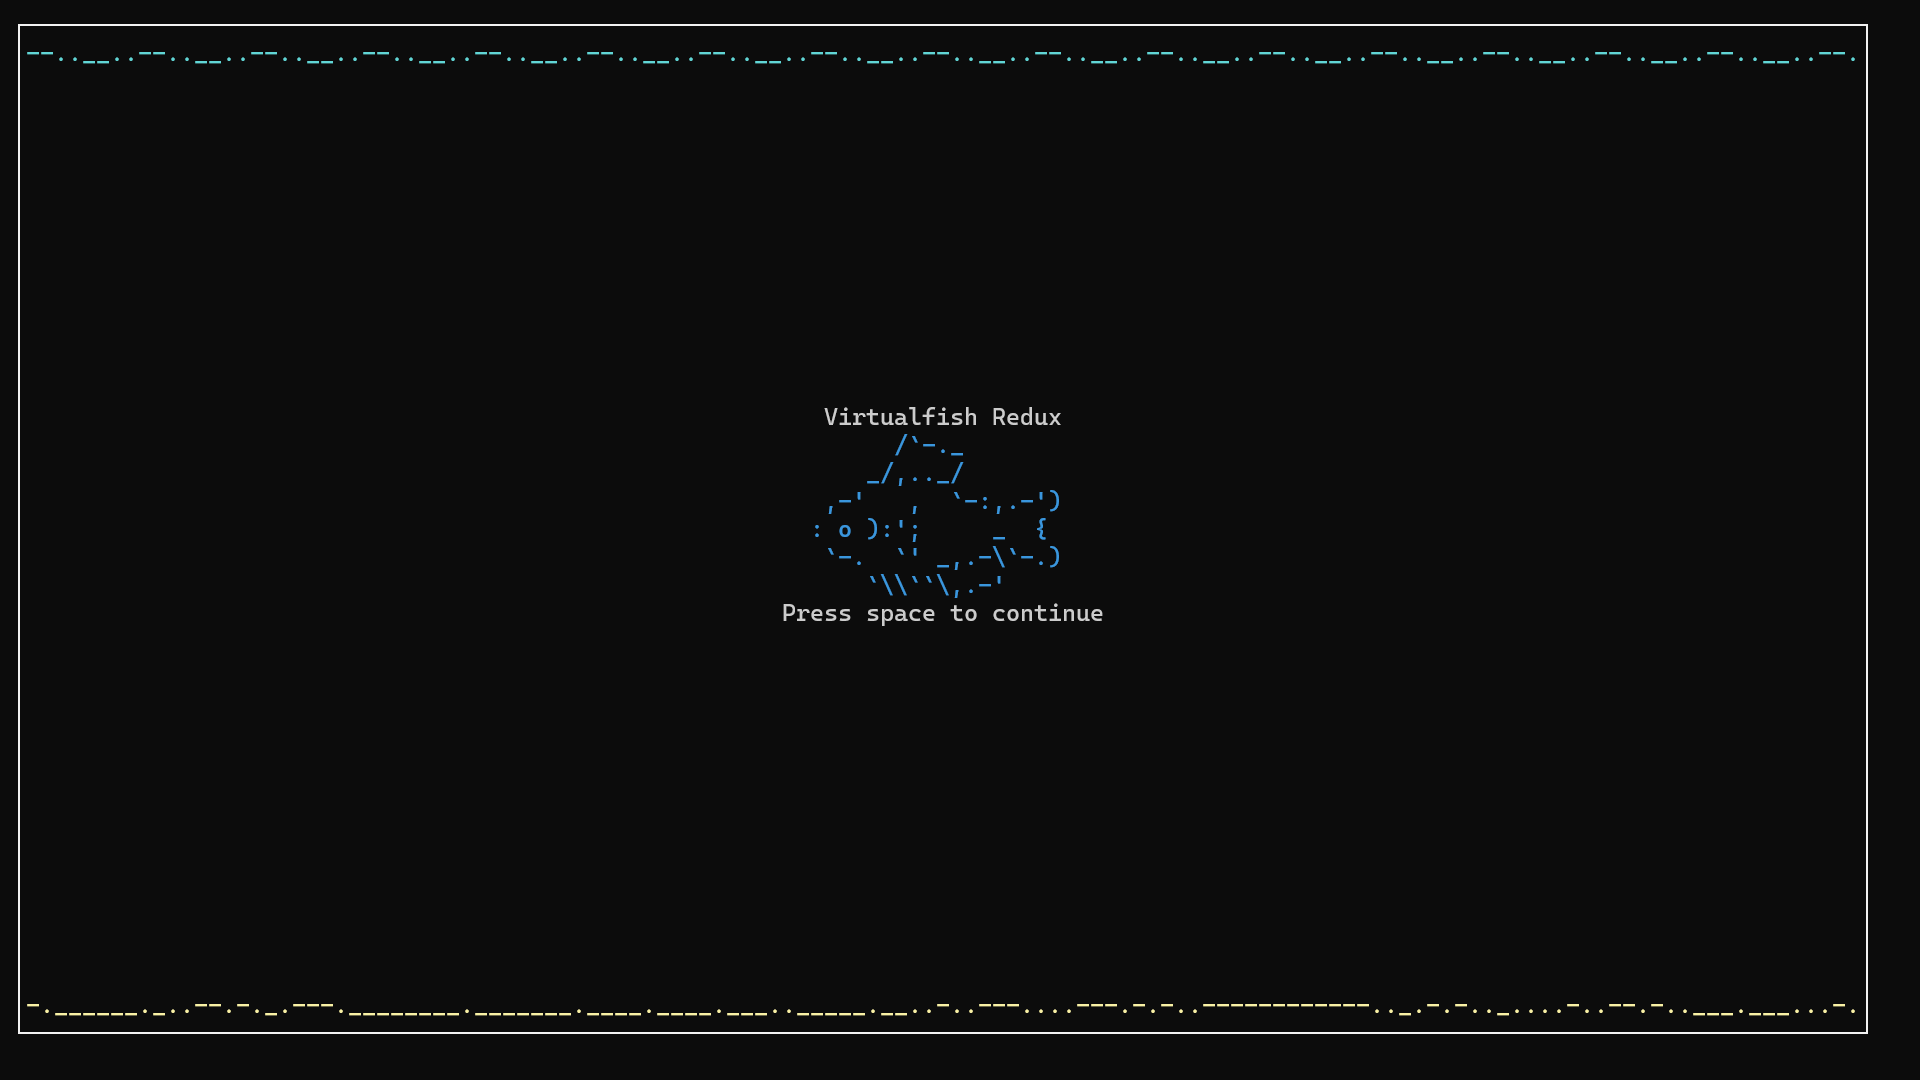
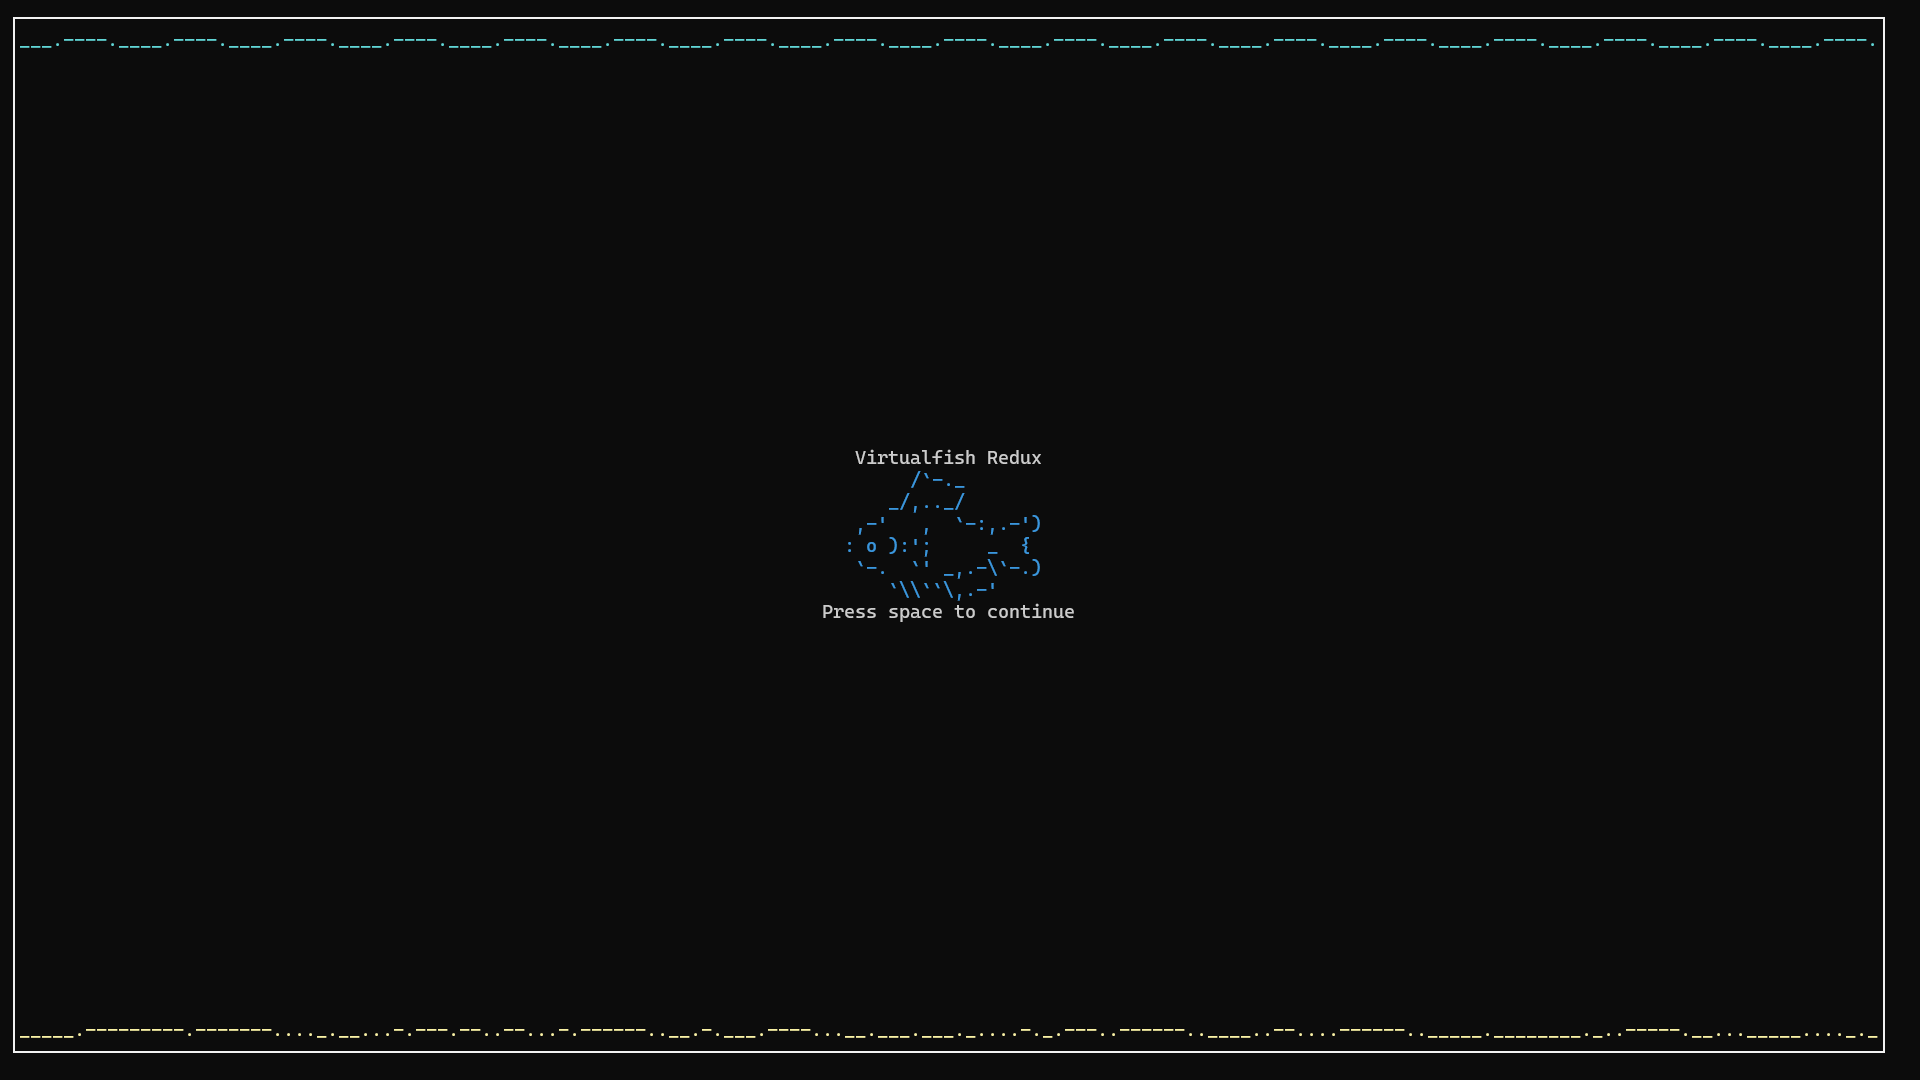
updated title_screen image

diff --git a/src/virtualfish.c b/src/virtualfish.c
@@ -346,10 +346,12 @@ void draw_water(){
     frame_cnt++;
     frame_cnt = frame_cnt % 22;
 
-    while(x_offset < size){
+    while(x_offset < size - 9){
         mvaddnstr(1, x_offset, water_pattern, 10);
         x_offset += 10;
     }
+
+    mvaddnstr(1, x_offset, water_pattern, (size - x_offset + 2));
 
     if(black_and_white == 0) attroff(COLOR_PAIR(CYAN) | A_BOLD);
 
